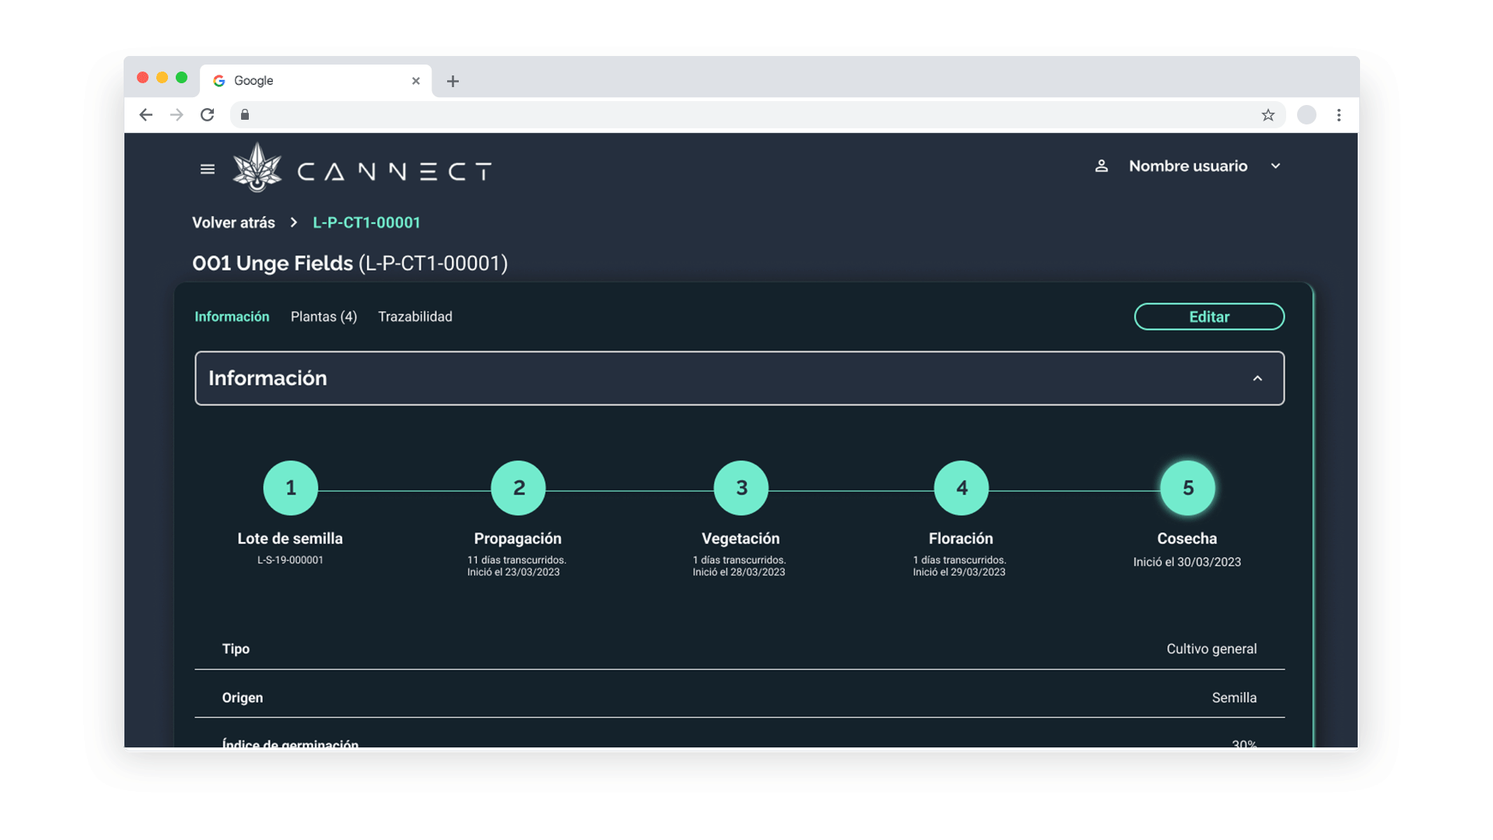
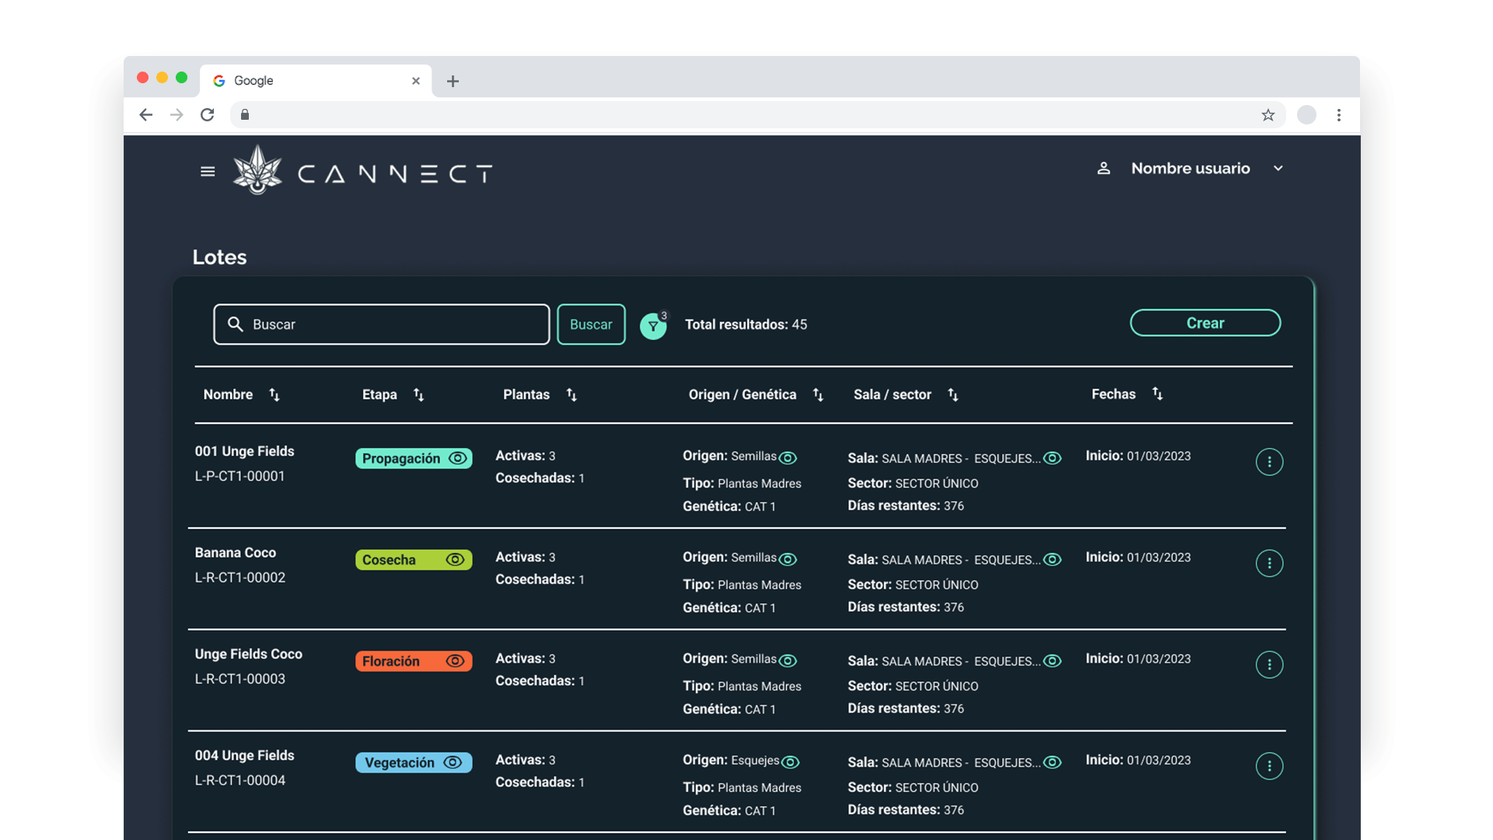
Cannect case study: multi-platform copy update, design polish, image refresh
- Update all copy to reflect multi-platform scope (Web Desktop + Native Mobile App)
- Remove em dashes throughout per writing style guidelines
- Rewrite all sections: Context, Problem, My Role, Process, Decisions, Solution, Outcome, Reflection
- Decision 02 updated to cover responsive web architecture and native mobile patterns
- Update hero title to "Simplifying Biotech Traceability" and Product Type to Multi-platform
- Improve metric cards: back to card style consistent with decision cards (thin border, no shadow)
- Callout redesigned: remove teal background, use left border accent + italic text
- Back-to-top button changed from purple to cannect teal to match project theme
- Get in touch CTA: text color changed to white
- Replace cannect_1.png cover with cannect.png (desktop + mobile composite)
- Update cannect_2.png to desktop Lotes view for Final Solution section
- Fix All work link opacity (slightly lighter)
- Add iOS to scope metric label and tags

diff --git a/cannect.html b/cannect.html
@@ -48,8 +48,8 @@
     .nav__link{font-size:var(--t--1);font-weight:500;color:rgba(255,255,255,.75);transition:color var(--dur)}
     .nav.scrolled .nav__link{color:var(--stone)}
     .nav__link:hover{color:var(--purple)}
-    .nav__link--cta{background:var(--cannect);color:var(--ink);padding:8px 18px;border-radius:100px;transition:background var(--dur)}
-    .nav__link--cta:hover{background:#16A882;color:var(--ink)}
+    .nav__link--cta{background:var(--cannect);color:var(--white);padding:8px 18px;border-radius:100px;transition:background var(--dur)}
+    .nav__link--cta:hover{background:#16A882;color:var(--white)}
     .nav__toggle{display:none;background:none;border:none;cursor:pointer;color:var(--ink);padding:4px}
 
     .wrap{max-width:var(--max);margin:0 auto;padding:0 var(--s6)}
@@ -57,7 +57,7 @@
     .case-hero{background:#061A15;padding-top:calc(60px + var(--s16));padding-bottom:0;position:relative;overflow:hidden}
     .case-hero::after{content:'';position:absolute;inset:0;background:radial-gradient(ellipse 80% 60% at 60% 100%,rgba(31,201,163,.2) 0%,transparent 70%);pointer-events:none}
     .case-hero .wrap{display:flex;flex-direction:column;gap:var(--s6);position:relative;z-index:1}
-    .case-hero__back{display:inline-flex;align-items:center;gap:6px;font-size:var(--t--1);font-weight:500;color:rgba(255,255,255,.5);transition:color var(--dur) var(--ease);align-self:flex-start;width:fit-content;letter-spacing:.01em}
+    .case-hero__back{display:inline-flex;align-items:center;gap:6px;font-size:var(--t--1);font-weight:500;color:rgba(255,255,255,.7);transition:color var(--dur) var(--ease);align-self:flex-start;width:fit-content;letter-spacing:.01em}
     .case-hero__back:hover{color:rgba(255,255,255,.9)}
     .case-hero__tags{display:flex;flex-wrap:wrap;gap:var(--s2)}
     .tag{font-size:.75rem;font-weight:600;background:rgba(255,255,255,.1);color:rgba(255,255,255,.7);padding:.25rem .75rem;border-radius:100px;letter-spacing:.03em;text-transform:uppercase}
@@ -71,13 +71,13 @@
     .case-cover{background:var(--white);display:flex;justify-content:center;padding:var(--s10) 0 0;position:relative}
     .case-cover img{max-width:860px;width:92%;height:auto;display:block;border-radius:12px 12px 0 0;position:relative;z-index:1}
 
-    .case-metrics-wrap{background:var(--white);padding:var(--s12) 0}.case-metrics{max-width:780px;margin:0 auto;padding:0 var(--s6);display:grid;grid-template-columns:repeat(3,1fr);gap:var(--s4)}
-    .case-metric{background:var(--white);border-radius:20px;padding:var(--s10) var(--s8);border-top:4px solid transparent;display:flex;flex-direction:column;gap:var(--s3)}
+    .case-metrics-wrap{background:var(--white);padding:var(--s10) 0 var(--s12)}.case-metrics{max-width:860px;margin:0 auto;padding:0 var(--s6);display:grid;grid-template-columns:repeat(3,1fr);gap:var(--s4)}
+    .case-metric{background:var(--white);border:1px solid var(--border);border-radius:16px;padding:var(--s8);border-top:3px solid transparent;display:flex;flex-direction:column;gap:var(--s3)}
     .case-metric:nth-child(1){border-top-color:var(--cannect)}.case-metric:nth-child(2){border-top-color:#6BAF92}.case-metric:nth-child(3){border-top-color:#E8A87C}
-    .case-metric__num{font-family:var(--ff-display);font-size:var(--t-5);font-weight:700;line-height:1;letter-spacing:-.04em;color:var(--ink);font-variant-numeric:lining-nums tabular-nums}
+    .case-metric__num{font-family:var(--ff-display);font-size:var(--t-4);font-weight:700;line-height:1;letter-spacing:-.04em;color:var(--ink);font-variant-numeric:lining-nums tabular-nums}
     .case-metric__num em{color:var(--cannect);font-style:normal}
     .case-metric__label{font-size:var(--t--1);color:var(--stone);line-height:1.55}
-    .case-metric__tag{display:inline-block;font-size:10px;font-weight:700;letter-spacing:.08em;text-transform:uppercase;color:#0D9B7A;background:#E6FAF6;border-radius:100px;padding:2px 10px;width:fit-content}
+    .case-metric__tag{font-size:10px;font-weight:700;letter-spacing:.08em;text-transform:uppercase;color:var(--muted)}
 
     .case-sections{max-width:780px;margin:0 auto;padding:var(--s16) var(--s6)}
     .case-section{padding:var(--s12) 0}
@@ -87,9 +87,9 @@
     .section-body{color:var(--stone);font-size:var(--t-0);line-height:1.8}
     .section-body p+p{margin-top:var(--s4)}
 
-    .callout{background:var(--periwinkle);border-radius:16px;padding:var(--s6) var(--s8);margin-top:var(--s8)}
-    .callout__label{font-size:11px;font-weight:700;letter-spacing:.08em;text-transform:uppercase;color:var(--stone);margin-bottom:var(--s3)}
-    .callout__text{font-size:var(--t-0);color:var(--ink);line-height:1.7}
+    .callout{border-left:3px solid var(--cannect);padding:var(--s4) var(--s8);margin-top:var(--s8)}
+    .callout__label{font-size:11px;font-weight:700;letter-spacing:.08em;text-transform:uppercase;color:var(--cannect);margin-bottom:var(--s3)}
+    .callout__text{font-size:var(--t-1);color:var(--ink);line-height:1.7;font-style:italic}
 
     .decisions{margin-top:var(--s8);display:flex;flex-direction:column;gap:var(--s4)}
     .decision{background:var(--white);border:1px solid var(--border);border-radius:14px;padding:var(--s6);transition:border-color var(--dur),box-shadow var(--dur)}
@@ -120,7 +120,7 @@
       .case-hero__title{font-size:var(--t-4)}
       .case-hero__meta{grid-template-columns:repeat(2,1fr)}
       .case-metrics{grid-template-columns:1fr}
-      .case-metrics{grid-template-columns:1fr;gap:var(--s4)}
+      .case-metric:nth-child(2),.case-metric:nth-child(3){padding-left:0;border-left:none}
       
     }
     @media(max-width:640px){
@@ -146,9 +146,9 @@
       image-rendering: -webkit-optimize-contrast;
     }
     
-.back-top{position:fixed;bottom:2rem;right:2rem;z-index:300;width:44px;height:44px;border-radius:50%;background:#5B2FE8;color:#fff;border:none;cursor:pointer;font-size:1.1rem;font-weight:600;display:flex;align-items:center;justify-content:center;box-shadow:0 4px 20px rgba(91,47,232,0.3);opacity:0;transform:translateY(12px) scale(0.85);transition:opacity 300ms,transform 300ms,background 150ms;pointer-events:none}
+.back-top{position:fixed;bottom:2rem;right:2rem;z-index:300;width:44px;height:44px;border-radius:50%;background:var(--cannect);color:#fff;border:none;cursor:pointer;font-size:1.1rem;font-weight:600;display:flex;align-items:center;justify-content:center;box-shadow:0 4px 20px rgba(31,201,163,0.35);opacity:0;transform:translateY(12px) scale(0.85);transition:opacity 300ms,transform 300ms,background 150ms;pointer-events:none}
 .back-top--visible{opacity:1;transform:translateY(0) scale(1);pointer-events:all}
-.back-top:hover{background:#4520C4;transform:translateY(-2px) scale(1)}
+.back-top:hover{background:#16A882;transform:translateY(-2px) scale(1)}
 </style>
 </head>
 <body>
@@ -182,13 +182,13 @@
           <span class="tag">Information Architecture</span>
           <span class="tag">WCAG 2.2</span>
         </div>
-        <h1 class="case-hero__title">Cannect:<br><em>Biotech Traceability & Workflow Precision</em></h1>
-        <p class="case-hero__desc">Designing an intelligent traceability tool for a heavily regulated B2B biotechnology platform — reducing critical task completion time by 83% while eliminating compliance risk.</p>
+        <h1 class="case-hero__title">Cannect:<br><em>Simplifying Biotech Traceability</em></h1>
+        <p class="case-hero__desc">Designing an intelligent traceability tool for a compliance-driven biotechnology B2B platform, reducing critical task completion time by 83%.</p>
         <div class="case-hero__meta">
           <div><p class="meta-label">Role</p><p class="meta-value">UX/UI Lead</p></div>
           <div><p class="meta-label">Company</p><p class="meta-value">IT Patagonia</p></div>
           <div><p class="meta-label">Timeline</p><p class="meta-value">2022–2024</p></div>
-          <div><p class="meta-label">Product type</p><p class="meta-value">Enterprise B2B SaaS · Web</p></div>
+          <div><p class="meta-label">Product type</p><p class="meta-value">Enterprise B2B SaaS · Multi-platform (Web Desktop & Native Mobile App)</p></div>
         </div>
       </div>
     </section>
@@ -197,7 +197,7 @@
 
 
     <div class="case-cover">
-      <img src="cannect_1.png" alt="Cannect Lotes traceability dashboard — desktop and mobile view" loading="lazy" decoding="async">
+      <img src="cannect.png" alt="Cannect Lotes traceability dashboard — desktop and mobile view" loading="lazy" decoding="async">
     </div>
     <div class="case-metrics-wrap">
       <div class="case-metrics" role="list">
@@ -213,8 +213,8 @@
         </div>
         <div class="case-metric" role="listitem">
           <span class="case-metric__tag">Scope</span>
-          <p class="case-metric__num" style="font-size:var(--t-3)">End&#x2011;to&#x2011;end</p>
-          <p class="case-metric__label">Research, IA, wireframes, high-fidelity, hand-off</p>
+          <p class="case-metric__num" style="font-size:var(--t-3)">End to end</p>
+          <p class="case-metric__label">Research, IA, native mobile patterns, responsive web, wireframes, high fidelity, handoff, WCAG 2.2 standards</p>
         </div>
       </div>
     </div>
@@ -222,35 +222,38 @@
     <div class="case-sections">
         <section class="case-section" aria-labelledby="s-context">
           <p class="section-label">Context</p>
-          <h2 class="section-heading" id="s-context">A <em>high-stakes</em> B2B environment</h2>
+          <h2 class="section-heading" id="s-context">A platform where <em>errors are not an option</em></h2>
           <div class="section-body">
-            <p>Cannect is a core traceability platform engineered for biotechnology operations. It manages biological sample tracking, audit trails, and mandatory regulatory compliance documentation.</p>
-            <p>In this domain, <strong>precision, auditability, and clear information hierarchy are non-negotiable</strong>. Users — ranging from laboratory scientists to QA specialists and operations managers — operate under rigid compliance mandates. Interface ambiguity doesn't just cause frustration; it introduces severe regulatory risk and operational downtime.</p>
+            <p>Cannect is an intelligent traceability tool built for a biotechnology company operating in a heavily regulated B2B environment. The platform handles the tracking of biological samples, processes, and compliance documentation: the kind of domain where precision, auditability, and workflow clarity are non-negotiable.</p>
+            <p>The users are technical professionals like laboratory staff, quality assurance teams, and operations managers working under strict regulatory requirements. Every interaction with the platform carries real consequences, where an unclear interface is not just frustrating but creates direct compliance risk.</p>
           </div>
         </section>
 
         <section class="case-section" aria-labelledby="s-problem">
           <p class="section-label">Problem</p>
-          <h2 class="section-heading" id="s-problem">High data density & <em>cognitive overload</em></h2>
+          <h2 class="section-heading" id="s-problem">Too much information, <em>too little clarity</em></h2>
           <div class="section-body">
-            <p>Over time, legacy features created a fragmented user interface characterised by unstructured high density — key operational data buried under unprioritised layouts, core traceability tasks requiring ~30 seconds due to scattered inputs and unclear validation loops.</p>
-            <p>Users had to mentally cross-reference multiple data points simultaneously, increasing the likelihood of compliance errors. In a regulated environment, cognitive fatigue isn't a UX inconvenience — it's an operational and legal liability.</p>
+            <p>The existing interface had accumulated significant complexity over time. Dense information layouts, inconsistent patterns, and workflows did not match how users actually performed their tasks across different touchpoints. The most critical flows were taking users approximately 30 seconds to complete steps that should have been near instant.</p>
+            <p>In a compliance-driven environment, this was not just a UX problem. Cognitive overload increases error rates, slow task completion affects operational throughput, and unclear validation feedback makes it harder for users to trust the system.</p>
           </div>
           <div class="callout">
-            <p class="callout__label">The core design challenge</p>
-            <p class="callout__text">How do you drastically simplify a complex domain without sacrificing the granular precision, control, and audit readiness technical users rely on? The goal was clarity without oversimplification.</p>
+            <p class="callout__label">The core challenge</p>
+            <p class="callout__text">How do you simplify a genuinely complex domain without removing the precision and control that technical users depend on? The goal was clarity without oversimplification: making the interface faster across desktop and mobile devices without hiding information that matters.</p>
           </div>
         </section>
 
         <section class="case-section" aria-labelledby="s-role">
           <p class="section-label">My role</p>
-          <h2 class="section-heading" id="s-role">End-to-end design <em>ownership</em></h2>
-          <div class="section-body"><p>As UX/UI Lead, I maintained full design ownership across the entire engagement:</p></div>
+          <h2 class="section-heading" id="s-role">End to end design <em>ownership</em></h2>
+          <div class="section-body"><p>As UX/UI Lead, I owned the design process from research to final handoff across web and native mobile platforms:</p></div>
           <ul class="bullets">
-            <li><strong>UX Research & Benchmarking:</strong> Led qualitative user interviews, task-analysis sessions, and competitive benchmarking in high-compliance SaaS</li>
-            <li><strong>Information Architecture & Flow Mapping:</strong> Redefined the domain's core structural taxonomy, navigation models, and validation patterns</li>
-            <li><strong>Design System & Component Strategy:</strong> Developed scalable UI components, data visualisation patterns, and tokens optimised for technical web tools</li>
-            <li><strong>Cross-Functional Alignment:</strong> Partnered directly with engineering to align design solutions with technical constraints, edge cases, and API capabilities</li>
+            <li>Coordinating and facilitating UX research and benchmarking at multiple project stages</li>
+            <li>Defining the information architecture for the redesigned traceability flows across web and mobile viewports</li>
+            <li>Designing native mobile patterns for on the go sample tracking and responsive web layouts for desktop workstations</li>
+            <li>Designing and iterating wireframes through to high fidelity prototypes</li>
+            <li>Validating solutions with users before finalising design decisions</li>
+            <li>Aligning design decisions with technical constraints, mobile platform guidelines, and accessibility goals</li>
+            <li>Collaborating with engineering on handoff, component systems, and multi-platform implementation</li>
           </ul>
         </section>
 
@@ -258,11 +261,10 @@
           <p class="section-label">Process</p>
           <h2 class="section-heading" id="s-process">Research first, <em>then design</em></h2>
           <div class="section-body">
-            
-            <p>The work began with a preliminary design phase: mapping user flows, defining the information architecture, and stress-testing traceability requirements before any UI decisions were made. That structural groundwork combined with research sessions at mid-process and pre-launch shaped every design decision that followed.</p>
-            <p>Benchmarking informed the structural decisions: how comparable platforms in regulated industries handle dense information, how validation patterns work in technical B2B tools, and where we needed to deviate from convention.</p>
+            <p>The work began with a preliminary design phase: mapping multi-device user flows, defining information architecture, and stress-testing traceability requirements before making UI decisions. That structural groundwork, combined with research sessions at mid-process and pre-launch, shaped every design decision that followed.</p>
+            <p>Benchmarking informed structural decisions: how comparable platforms in regulated industries handle dense information, how native mobile UI patterns support complex data entry in the field, and where we needed to deviate from convention.</p>
           </div>
-          <img src="cannect_04.png" alt="Cannect project pre-phase — architecture, environment setup, team setup and project start" loading="lazy" decoding="async" style="border-radius:12px">
+          <img src="cannect_04.png" alt="Cannect project pre-phase: architecture, environment setup, team setup and project start" loading="lazy" decoding="async" style="border-radius:12px">
           <p class="img-caption">User flow mapping, traceability task analysis</p>
         </section>
 
@@ -272,53 +274,52 @@
           <div class="decisions">
             <div class="decision">
               <p class="decision__num">Decision 01</p>
-              <p class="decision__q">Progressive disclosure over unfiltered data density</p>
-              <p class="decision__a">Instead of displaying all data attributes simultaneously, we re-architected views around progressive disclosure. Primary operational states surface critical indicators first, allowing technical users to drill down into full audit logs on demand. This reduced visual noise without removing access to the data.</p>
+              <p class="decision__q">Progressive disclosure and multi-device strategy</p>
+              <p class="decision__a">The original interface displayed all available information simultaneously. We restructured around progressive disclosure, surfacing only what users needed at each step on both desktop and native mobile views. This reduced visual noise while ensuring full data access when needed.</p>
             </div>
             <div class="decision">
               <p class="decision__num">Decision 02</p>
-              <p class="decision__q">Context-aware validation & error recovery patterns</p>
-              <p class="decision__a">In compliance tools, error prevention is paramount. We replaced generic alert toasts with inline, context-aware validation states that clearly communicate <em>what</em> requires correction and <em>how</em> to resolve it immediately — turning error states into guided recovery flows.</p>
+              <p class="decision__q">Responsive web architecture and native mobile patterns</p>
+              <p class="decision__a">We established a dual interface strategy: a high density, highly scannable web platform for desktop analysis alongside a streamlined native mobile app optimized for quick scanning and sample logging on the go. Both environments adhered strictly to WCAG 2.2 accessibility standards and shared a unified visual taxonomy.</p>
             </div>
             <div class="decision">
               <p class="decision__num">Decision 03</p>
-              <p class="decision__q">Accessible design system for complex data sets</p>
-              <p class="decision__a">We established a robust component library centred on keyboard navigation, high-contrast WCAG 2.2 standards, and clear visual hierarchy for dense data tables and status monitors — ensuring the system scales without UI fragmentation.</p>
+              <p class="decision__q">Explicit, context-aware validation states</p>
+              <p class="decision__a">In a compliance environment, users need to know not just that something is wrong, but specifically what to do about it. We designed explicit, real-time validation feedback across web and mobile that guided users to resolution rather than just flagging errors.</p>
             </div>
           </div>
         </section>
 
         <section class="case-section" aria-labelledby="s-solution">
           <p class="section-label">Final solution</p>
-          <h2 class="section-heading" id="s-solution">Precision without <em>friction</em></h2>
+          <h2 class="section-heading" id="s-solution">Precision without <em>friction</em> across every touchpoint</h2>
 
           <div style="margin-top:var(--s8)">
-            <img src="cannect_3.png" alt="Cannect mobile app screens — login, lot list, search, QR scan and profile flows" loading="lazy" decoding="async" style="border-radius:12px;width:100%">
+            <img src="cannect_2.png" alt="Cannect Lotes dashboard, desktop traceability view" loading="lazy" decoding="async" style="border-radius:12px;width:100%">
           </div>
           <p class="img-caption">Final Cannect interface traceability dashboard</p>
           <div class="section-body" style="margin-top:var(--s10)">
-            <p>The redesigned Cannect interface maintains the full complexity of the domain. All the data, all the validation, all the traceability requirements while making that complexity navigable. Tasks that previously required users to hold multiple pieces of information in their heads simultaneously now follow a clear, step-by-step structure.</p>
-            <p>The design system established during this project provided a consistent foundation for future development scalable components that engineering could implement faithfully and that the design team could extend without divergence.</p>
+            <p>The redesigned Cannect platform maintains the full complexity of the domain whether accessed from a workstation or a mobile device. All data, validation loops, and traceability requirements remain intact while making that complexity navigable. Tasks that previously required users to hold multiple pieces of information in their heads simultaneously now follow a clear, step by step structure.</p>
+            <p>The design system established during this project provided a consistent foundation for future development: scalable web and mobile components that engineering could implement faithfully and that the design team could extend without divergence.</p>
           </div>
-        
+
         </section>
 
         <section class="case-section" aria-labelledby="s-outcome">
           <p class="section-label">Outcome</p>
-          <h2 class="section-heading" id="s-outcome">83% faster. <em>Same precision.</em></h2>
+          <h2 class="section-heading" id="s-outcome">83% faster <em>with maximum precision</em></h2>
           <div class="section-body">
-            <p>The primary success metric was task completion time on the critical traceability workflow. It went from approximately 30 seconds to 5 seconds an 83% reduction. This is a meaningful number in an operational context where the same action is repeated many times daily.</p>
-            <p>Beyond the quantitative result, user satisfaction increased measurably. Users reported feeling more confident in the interface not just faster, but more in control. In a compliance environment, that sense of clarity and control is a product quality in itself.</p>
+            <p>The primary success metric was task completion time on the critical traceability workflow. It went from approximately 30 seconds to 5 seconds, representing an 83% reduction. This is a meaningful improvement in an operational context where the same action is repeated many times daily across different physical work settings.</p>
+            <p>Beyond the quantitative result, user satisfaction increased measurably. Users reported feeling more confident in the interface, feeling not just faster but more in control. In a compliance environment, that sense of clarity and control is a core product quality.</p>
           </div>
-          <img src="cannect_2.png" alt="Cannect lot detail — 5-stage traceability workflow from seed to harvest" loading="lazy" decoding="async" style="margin-top:var(--s8);border-radius:12px;width:100%">
+          <img src="cannect_3.png" alt="Cannect mobile app screens: login, lot list, search, QR scan and profile flows" loading="lazy" decoding="async" style="margin-top:var(--s8);border-radius:12px;width:100%">
         </section>
 
         <section class="case-section" aria-labelledby="s-reflection">
           <p class="section-label">Reflection</p>
-          <h2 class="section-heading" id="s-reflection">What I would <em>do next</em></h2>
+          <h2 class="section-heading" id="s-reflection">What this <em>reinforced</em></h2>
           <div class="section-body">
-            <p>This project reinforced something I believe strongly: in complex, technical B2B domains, the most important design work is structural information architecture and workflow design not visual. Getting the structure right was what drove the 83% improvement. The visual layer followed from that.</p>
-            
+            <p>This project reinforced something I believe strongly: in complex, technical B2B domains, the most important design work is structural information architecture and workflow design across all user touchpoints, not visual surface. Getting the multi-platform structure right was what drove the 83% performance improvement, and the visual layer naturally followed from that.</p>
           </div>
         </section>
       </div>
